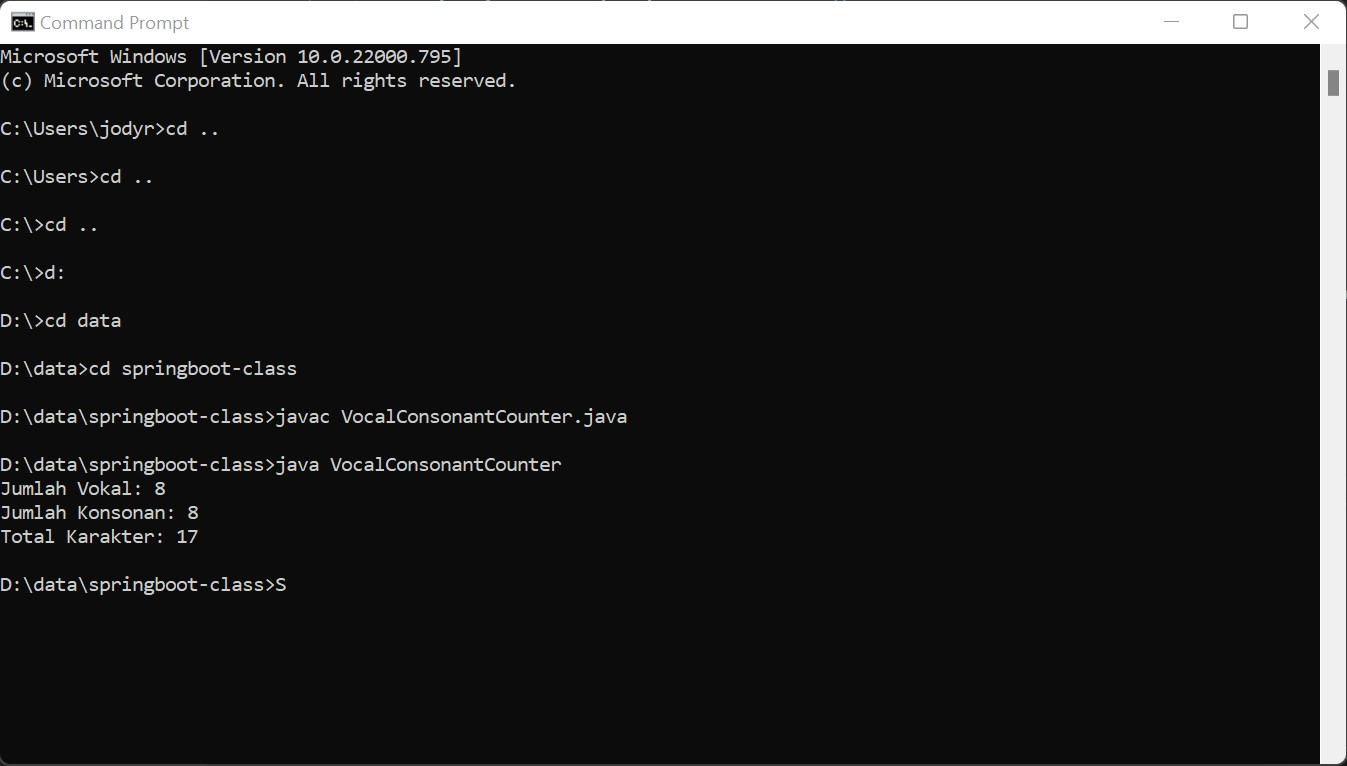
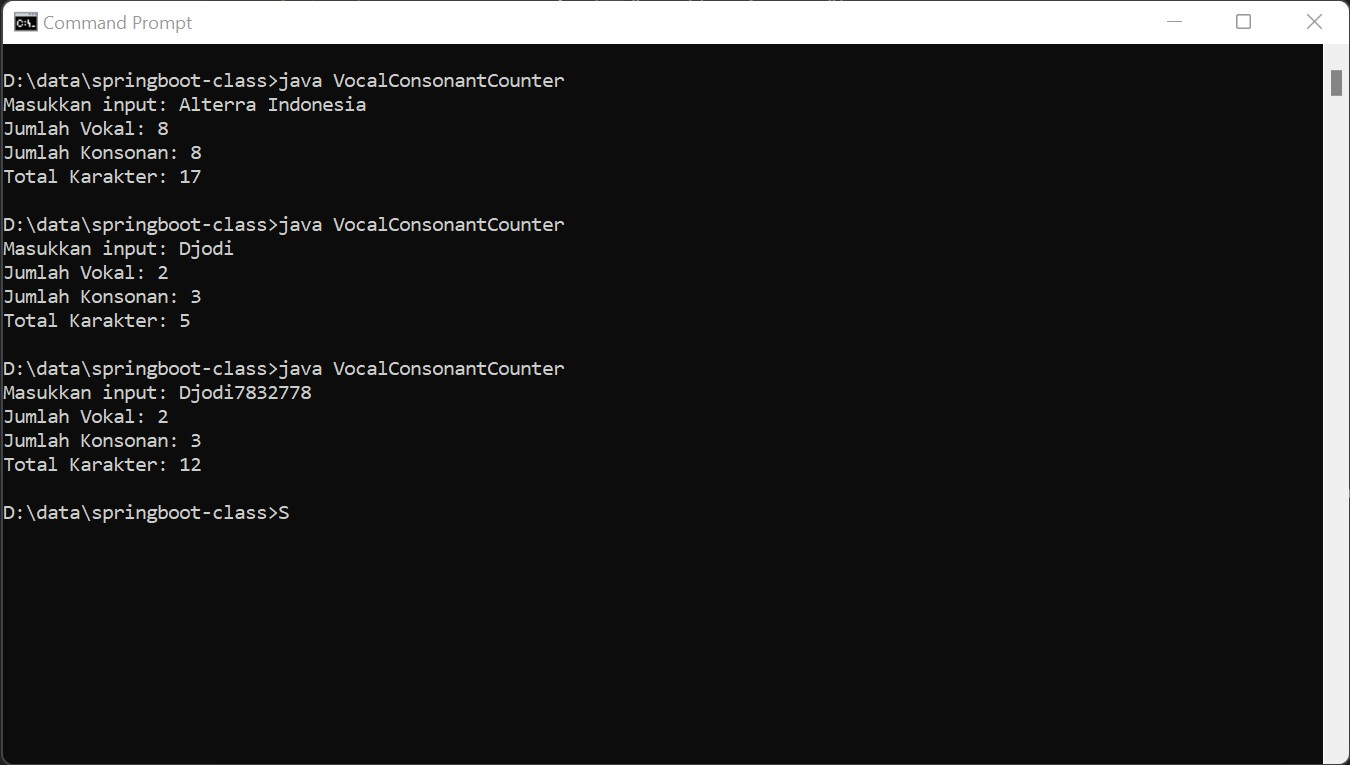
Enable string input when running the app

diff --git a/VocalConsonantCounter.java b/VocalConsonantCounter.java
@@ -1,10 +1,17 @@
+import java.util.Scanner;
+
 public class VocalConsonantCounter {    
-    public static void main(String[] args) {    
+    public static void main(String[] args) {
+        Scanner input = new Scanner(System.in);
+        System.out.print("Masukkan input: ");
+        String stringGiven = input.nextLine();
+        input.close();
+
         int vocalCounter = 0;
         int consonantCounter = 0;     
-        String stringGiven = "Alterra Indonesia"; 
+        int totalCharacter = stringGiven.length();
+
         stringGiven = stringGiven.toLowerCase();
-        int totalCharacter = stringGiven.length();  
             
         for(int i = 0; i < totalCharacter; i++) {    
             if(stringGiven.charAt(i) == 'a' || 
@@ -15,7 +22,7 @@ public class VocalConsonantCounter {
                 vocalCounter++;      
             else if(stringGiven.charAt(i) >= 'a' && stringGiven.charAt(i) <= 'z' ) consonantCounter++;
         }
-        
+
         System.out.println("Jumlah Vokal: " + vocalCounter);    
         System.out.println("Jumlah Konsonan: " + consonantCounter);
         System.out.println("Total Karakter: " + totalCharacter);   

diff --git a/README.md b/README.md
@@ -1,3 +1,3 @@
-# Count vocal, consonant & total characters of given string
+## Count vocal, consonant & total characters of given string
 
 ![screenshot](screenshot.jpg)
